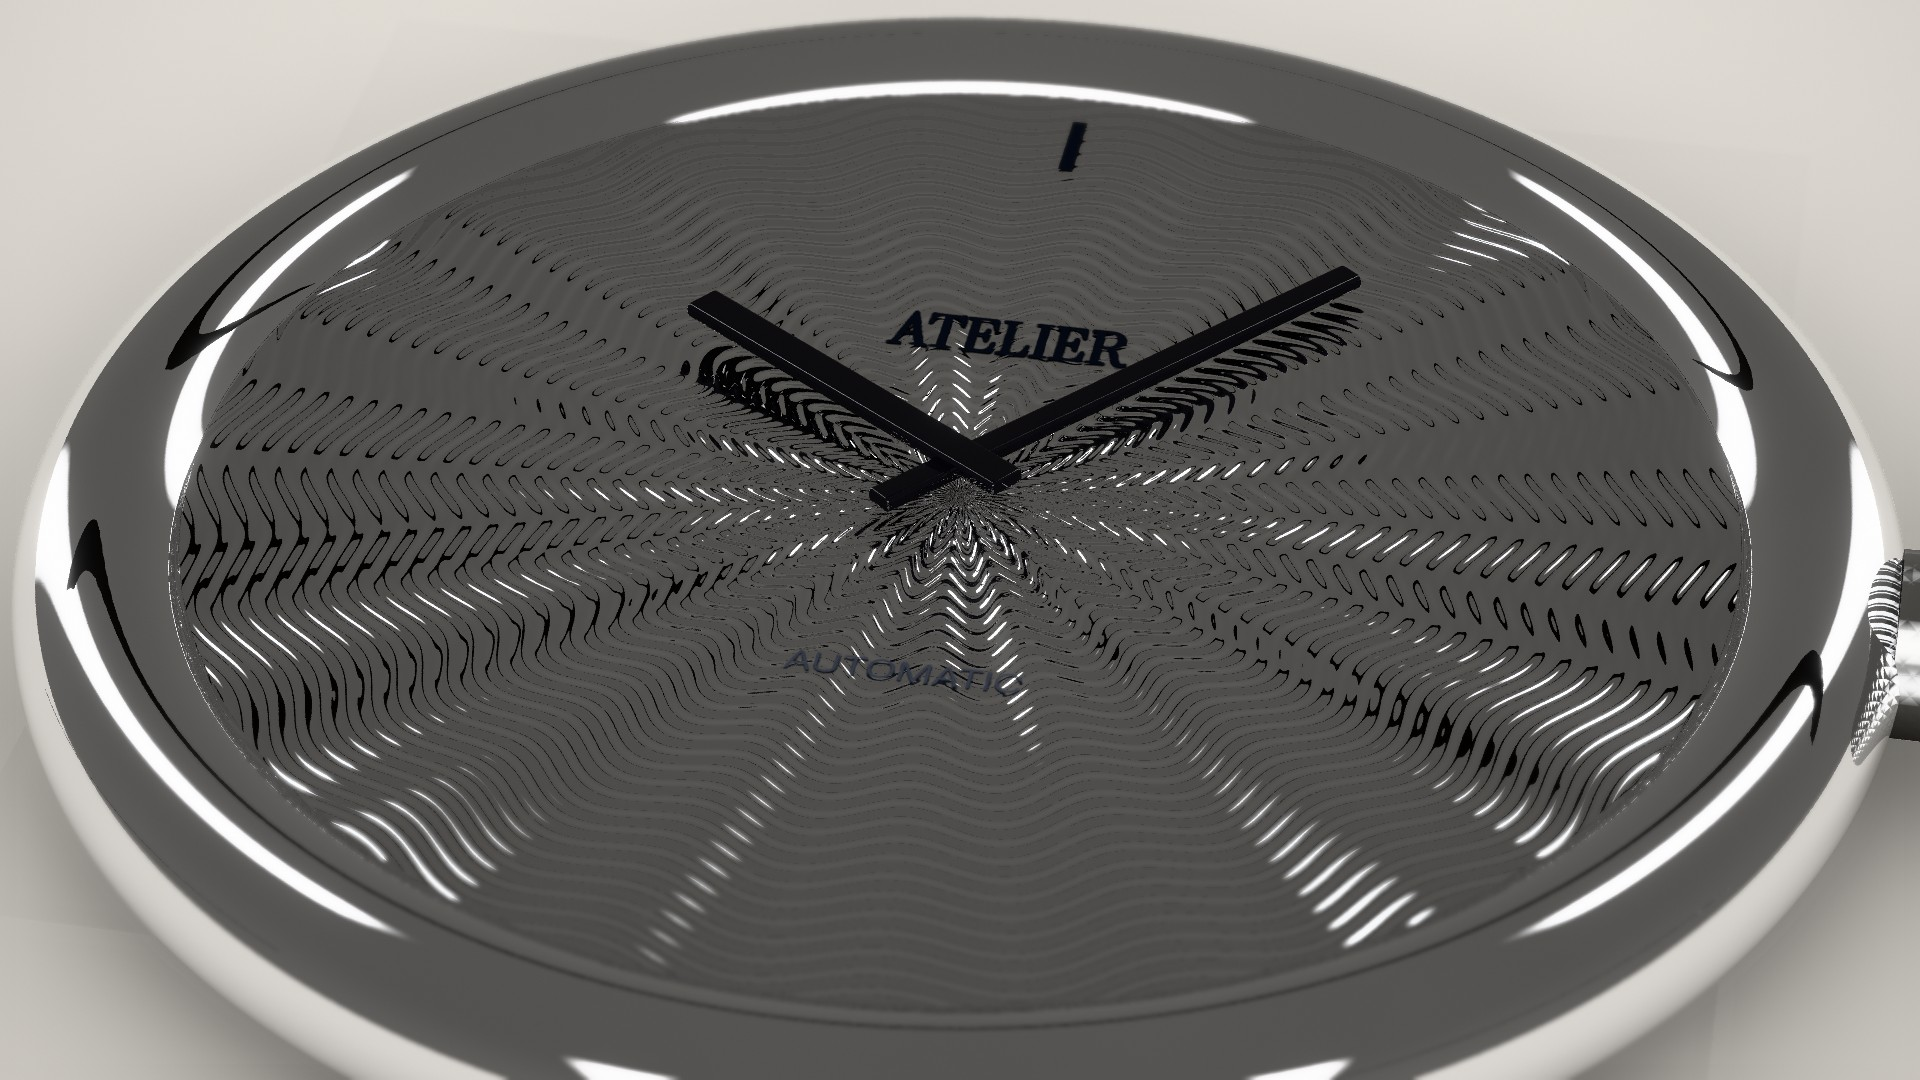
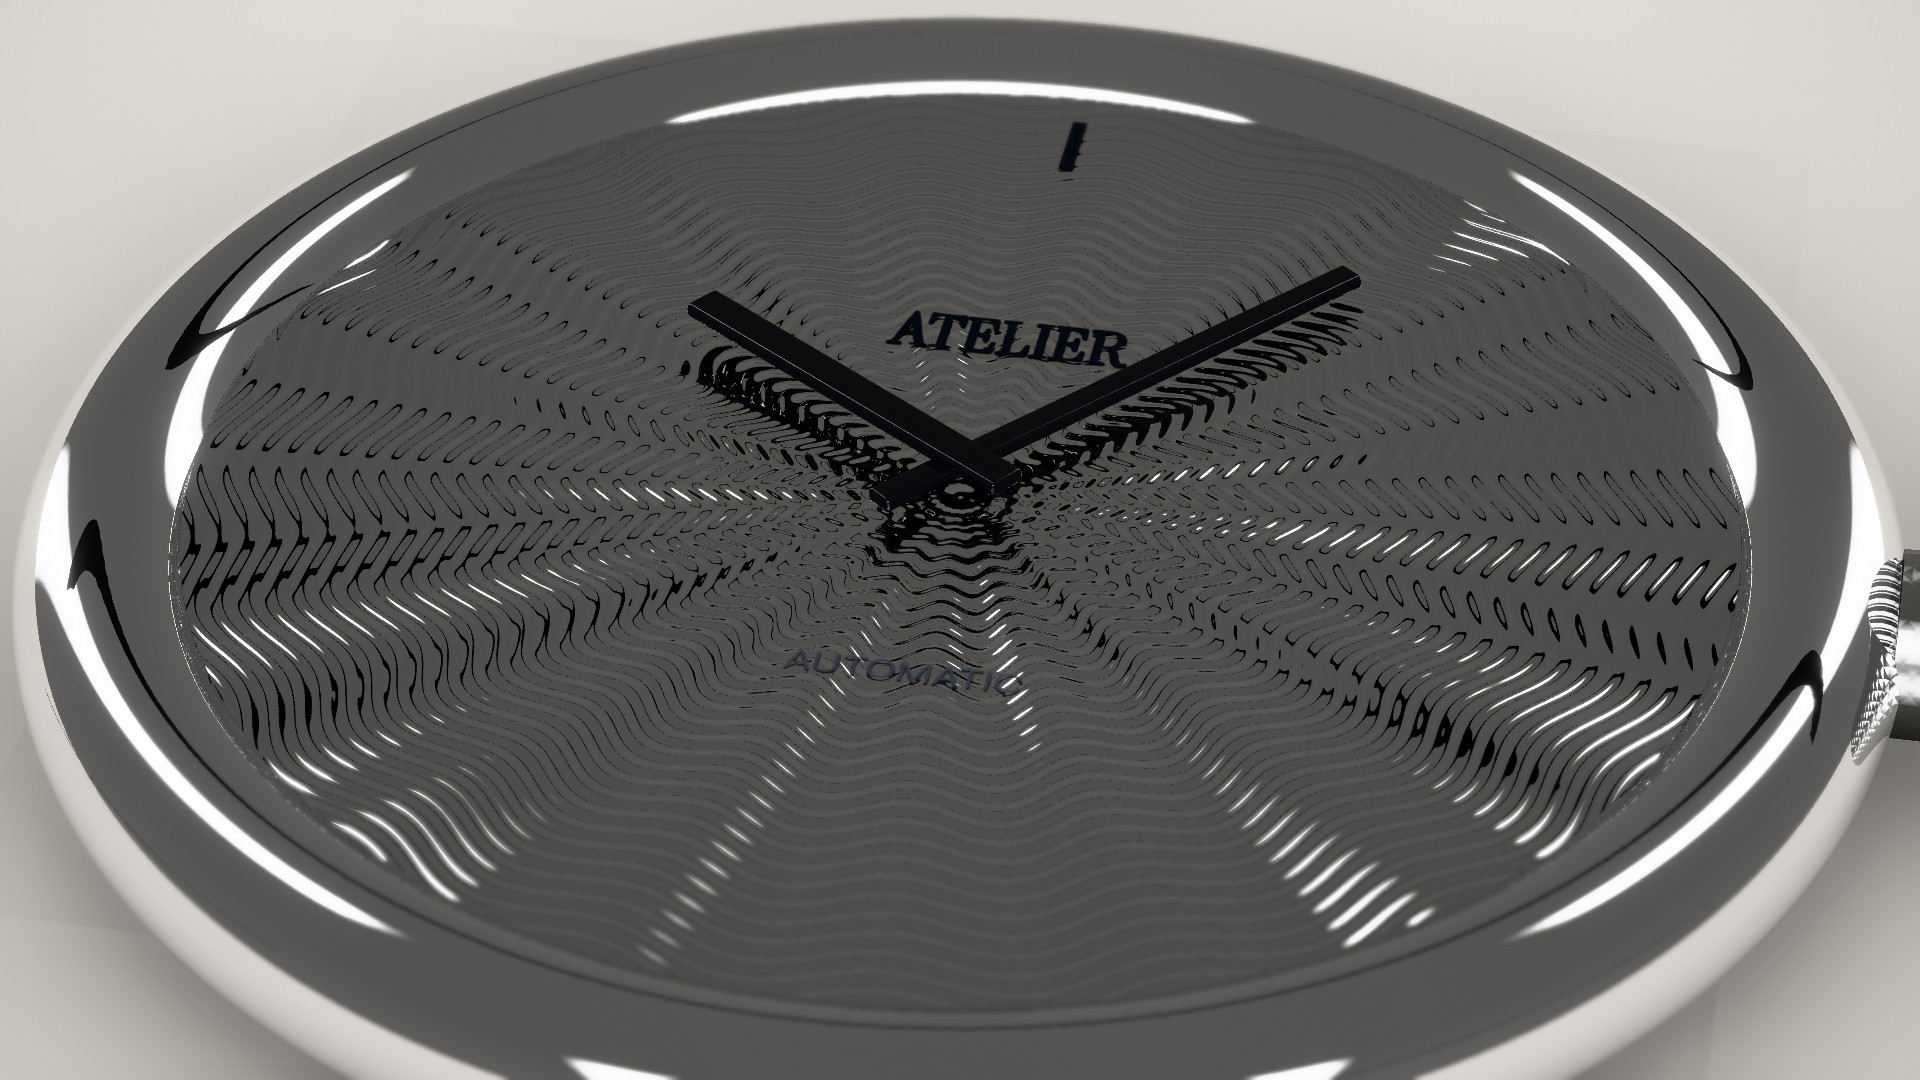
scene3d: guilloche ripple fades in from the centre (no spokes); refreshed dial proofs
Claude-Session: https://claude.ai/code/session_01YBqayaET7JSh2nx9HSb69L

Changed region(s): [[0.3438, 0.3667, 0.625, 0.6111], [0.4688, 0.3361, 0.5312, 0.3972]]

diff --git a/crates/anikit-video/src/scene3d/trace.rs b/crates/anikit-video/src/scene3d/trace.rs
@@ -1442,7 +1442,8 @@ impl Scene {
                 3 => {
                     let r = (q.x * q.x + q.z * q.z).sqrt();
                     let a = q.z.atan2(q.x);
-                    (((r + period * 0.6 * (a * 18.0).sin()) / period) * tau).sin()
+                    // The ripple fades in from the centre, where it would be denser than the rings.
+                    (((r + period * 0.6 * smoothstep(0.0, 12.0 * period, r) * (a * 18.0).sin()) / period) * tau).sin()
                 }
                 // Clous de Paris: a grid of small pyramids (diagonal).
                 4 => {

diff --git a/docs/video/scene3d.md b/docs/video/scene3d.md
@@ -135,7 +135,7 @@ Grooves need about six pixels per period to resolve. Below that they fade into e
 
 `{ "extends": "aluminium", "base": "#E4E6E9", "roughness": 0.15, "pattern": "guilloche", "patternScale": 0.012 }`
 
-Recipe: `anikit-video recipes precision-macro` (a knurled knob with a sunburst cap on a brushed plate, a strip sweep and a rack focus; still `docs/video/shots/3d-patterns/precision-macro.jpg`). Proof: `docs/video/shots/3d-patterns/dials.jpg` (a 100 mm macro on two dials, guilloché and clous de Paris; trace about 0.7 s at 1080p). Known limit: very fine guilloché can still moiré near the centre of the rings.
+Recipe: `anikit-video recipes precision-macro` (a knurled knob with a sunburst cap on a brushed plate, a strip sweep and a rack focus; still `docs/video/shots/3d-patterns/precision-macro.jpg`). Proof: `docs/video/shots/3d-patterns/dials.jpg` (a 100 mm macro on two dials, guilloché and clous de Paris; trace about 0.7 s at 1080p).
 
 ## Sets
 
